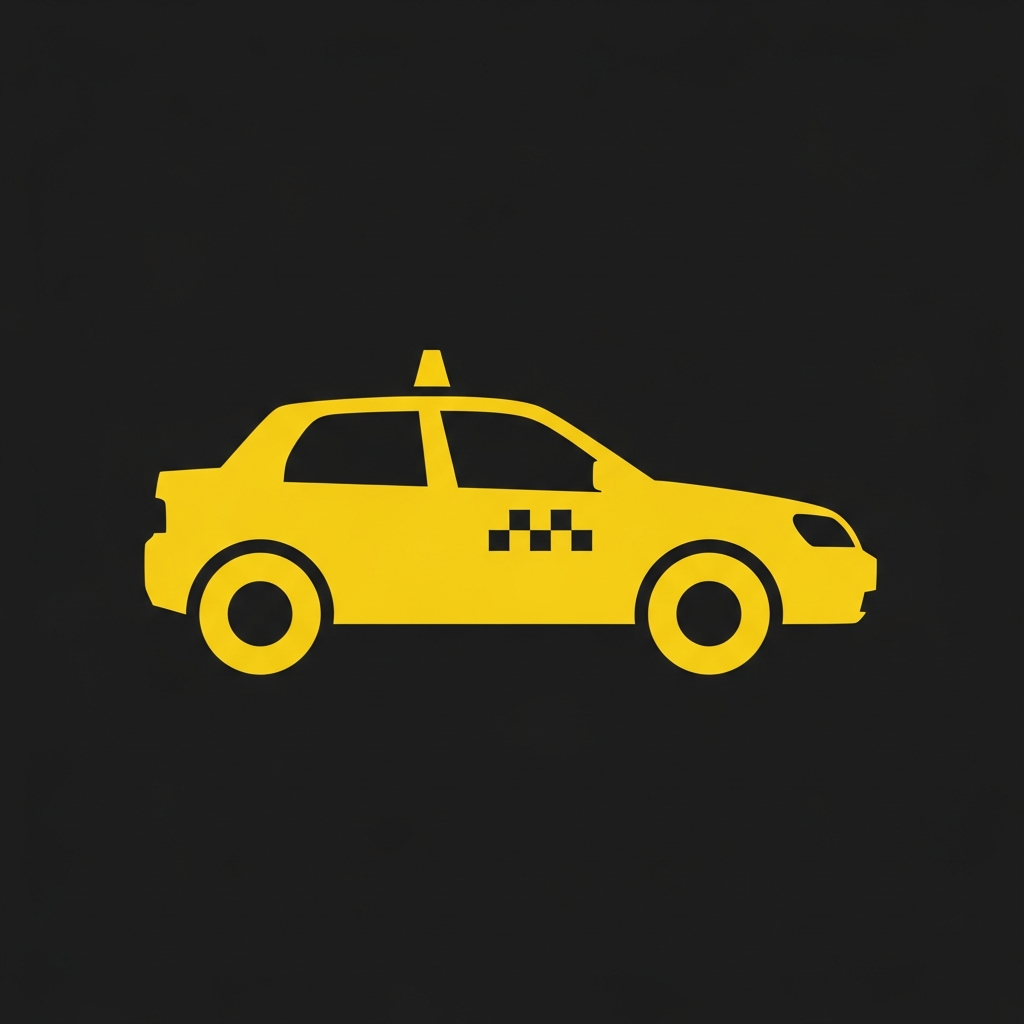
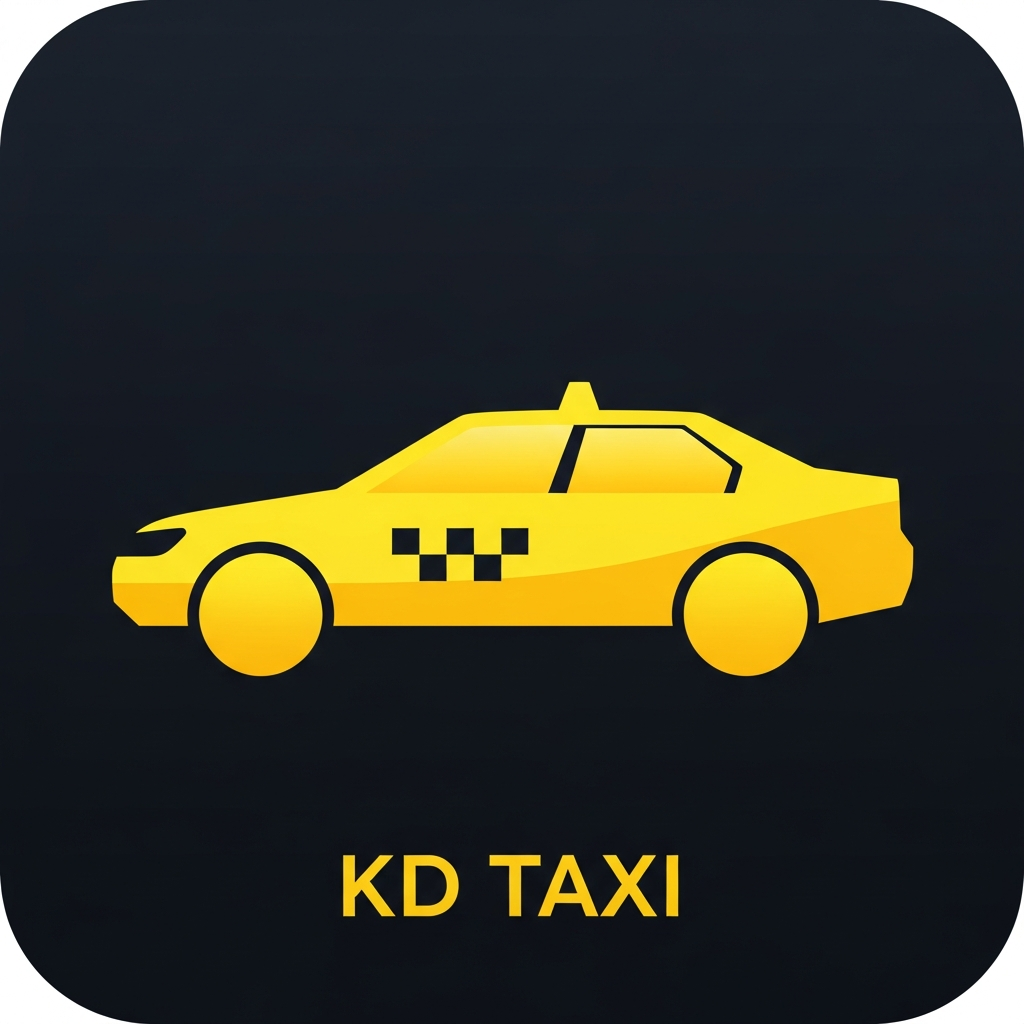
Display passenger and driver ratings and update app branding
Add average rating and ride count to ride details. Update "Chamar Táxi" to "KD TAXI" and configure adaptive icons for Android.

Replit-Commit-Author: Agent
Replit-Commit-Session-Id: c68bd1b4-e761-450b-b672-76a283f21896
Replit-Commit-Checkpoint-Type: full_checkpoint
Replit-Commit-Event-Id: 239e5c84-0c38-43c9-a912-e042a919df93
Replit-Commit-Screenshot-Url: https://storage.googleapis.com/screenshot-production-us-central1/6c9faf18-8340-438f-9c54-a1fdcf8d30b1/c68bd1b4-e761-450b-b672-76a283f21896/aLatMxD
Replit-Helium-Checkpoint-Created: true

diff --git a/artifacts/kd-taxi/screens/DriverHome.tsx b/artifacts/kd-taxi/screens/DriverHome.tsx
@@ -44,6 +44,9 @@ function RideCard({ ride, onAccept, onDecline }: { ride: Ride; onAccept: () => v
     clientRow: { flexDirection: "row", alignItems: "center", gap: 12, marginBottom: 14 },
     clientName: { fontSize: 18, fontWeight: "700", color: colors.foreground, fontFamily: "Inter_700Bold" },
     clientPhone: { fontSize: 13, color: colors.mutedForeground, fontFamily: "Inter_400Regular" },
+    clientRatingRow: { flexDirection: "row", alignItems: "center", gap: 4, marginTop: 3 },
+    clientRatingText: { fontSize: 13, color: colors.statusWaiting, fontFamily: "Inter_600SemiBold" },
+    clientRatingCount: { fontSize: 11, color: colors.mutedForeground, fontFamily: "Inter_400Regular" },
     row: { flexDirection: "row", alignItems: "center", gap: 10, marginBottom: 8 },
     dot: { width: 8, height: 8, borderRadius: 4 },
     routeText: { fontSize: 14, color: colors.foreground, flex: 1, fontFamily: "Inter_400Regular" },
@@ -78,6 +81,18 @@ function RideCard({ ride, onAccept, onDecline }: { ride: Ride; onAccept: () => v
           <View>
             <Text style={s.clientName}>{ride.clientName}</Text>
             <Text style={s.clientPhone}>{ride.clientPhone}</Text>
+            {(ride.clientAvgRating ?? 0) > 0 ? (
+              <View style={s.clientRatingRow}>
+                <Feather name="star" size={12} color={colors.statusWaiting} />
+                <Text style={s.clientRatingText}>{ride.clientAvgRating!.toFixed(1)}</Text>
+                <Text style={s.clientRatingCount}>({ride.clientRideCount} corridas)</Text>
+              </View>
+            ) : (
+              <View style={s.clientRatingRow}>
+                <Feather name="star" size={12} color={colors.mutedForeground} />
+                <Text style={s.clientRatingCount}>Sem avaliações ainda</Text>
+              </View>
+            )}
           </View>
         </View>
         <View style={s.row}>
@@ -209,7 +224,16 @@ export default function DriverHome() {
             </TouchableOpacity>
             <View>
               <Text style={s.userName}>{user?.name}</Text>
-              <Text style={s.userSub}>Motorista{user?.rating ? ` · ${user.rating} ★` : ""}</Text>
+              {(user?.rating ?? 0) > 0 ? (
+                <View style={{ flexDirection: "row", alignItems: "center", gap: 4, marginTop: 2 }}>
+                  <Feather name="star" size={11} color={colors.primary} />
+                  <Text style={[s.userSub, { color: colors.primary }]}>
+                    {user!.rating!.toFixed(1)} · {user!.rideCount} corridas
+                  </Text>
+                </View>
+              ) : (
+                <Text style={s.userSub}>Motorista</Text>
+              )}
             </View>
           </View>
           <View style={s.headerActions}>
@@ -251,6 +275,18 @@ export default function DriverHome() {
                   <View>
                     <Text style={s.clientName}>{activeRide.clientName}</Text>
                     <Text style={s.clientPhone}>{activeRide.clientPhone}</Text>
+                    {(activeRide.clientAvgRating ?? 0) > 0 ? (
+                      <View style={{ flexDirection: "row", alignItems: "center", gap: 4, marginTop: 3 }}>
+                        <Feather name="star" size={12} color={colors.statusWaiting} />
+                        <Text style={{ fontSize: 12, color: colors.statusWaiting, fontFamily: "Inter_600SemiBold" }}>
+                          {activeRide.clientAvgRating!.toFixed(1)} · {activeRide.clientRideCount} corridas
+                        </Text>
+                      </View>
+                    ) : (
+                      <Text style={{ fontSize: 12, color: colors.mutedForeground, fontFamily: "Inter_400Regular", marginTop: 2 }}>
+                        Novo passageiro
+                      </Text>
+                    )}
                   </View>
                 </View>
                 <View style={s.row}>

diff --git a/artifacts/kd-taxi/screens/ClientHome.tsx b/artifacts/kd-taxi/screens/ClientHome.tsx
@@ -188,6 +188,14 @@ export default function ClientHome() {
         <View>
           <Text style={s.greeting}>Olá,</Text>
           <Text style={s.userName}>{user?.name}</Text>
+          {(user?.rating ?? 0) > 0 && (
+            <View style={{ flexDirection: "row", alignItems: "center", gap: 4, marginTop: 2 }}>
+              <Feather name="star" size={11} color={colors.primary} />
+              <Text style={{ fontSize: 12, color: colors.primary, fontFamily: "Inter_600SemiBold" }}>
+                {user!.rating!.toFixed(1)} · {user!.rideCount} corridas
+              </Text>
+            </View>
+          )}
         </View>
         <View style={s.headerRight}>
           <TouchableOpacity onPress={() => router.push("/profile")}>
@@ -214,7 +222,7 @@ export default function ClientHome() {
                   style={s.bigBtn}
                 >
                   <MaterialCommunityIcons name="car-side" size={52} color="#000" style={s.bigBtnIcon} />
-                  <Text style={s.bigBtnText}>Chamar Táxi</Text>
+                  <Text style={s.bigBtnText}>KD TAXI</Text>
                   <Text style={s.bigBtnSub}>Preencha os campos abaixo</Text>
                 </LinearGradient>
               </Animated.View>
@@ -335,6 +343,14 @@ export default function ClientHome() {
                   <View style={{ flex: 1 }}>
                     <Text style={s.driverName}>{activeRide.driverName}</Text>
                     <Text style={s.driverSub}>Seu motorista</Text>
+                    {(activeRide.driverAvgRating ?? 0) > 0 ? (
+                      <View style={{ flexDirection: "row", alignItems: "center", gap: 4, marginTop: 3 }}>
+                        <Feather name="star" size={12} color={colors.primary} />
+                        <Text style={s.driverRating}>{activeRide.driverAvgRating!.toFixed(1)} · {activeRide.driverRideCount} corridas</Text>
+                      </View>
+                    ) : (
+                      <Text style={[s.driverSub, { marginTop: 2 }]}>Novo motorista</Text>
+                    )}
                   </View>
                 </View>
               )}

diff --git a/artifacts/api-server/src/routes/taxi.ts b/artifacts/api-server/src/routes/taxi.ts
@@ -22,9 +22,13 @@ interface Ride {
   clientName: string;
   clientPhone: string;
   clientPhoto?: string;
+  clientAvgRating?: number;
+  clientRideCount?: number;
   driverId?: string;
   driverName?: string;
   driverPhoto?: string;
+  driverAvgRating?: number;
+  driverRideCount?: number;
   origin: string;
   destination: string;
   price?: number;
@@ -132,8 +136,12 @@ router.post("/request-ride", async (req: Request, res: Response) => {
   if (!clientId || !origin || !destination) { res.status(400).json({ error: "Missing required fields" }); return; }
 
   const price = lookupPrice(destination);
+  const client = users.get(clientId);
   const ride: Ride = {
-    id: getId(), clientId, clientName, clientPhone, clientPhoto, origin, destination,
+    id: getId(), clientId, clientName, clientPhone, clientPhoto,
+    clientAvgRating: client?.rating ?? 0,
+    clientRideCount: client?.rideCount ?? 0,
+    origin, destination,
     price, payment: (payment as Ride["payment"]) ?? "dinheiro",
     status: "waiting", createdAt: new Date().toISOString(),
   };
@@ -161,9 +169,12 @@ router.post("/accept-ride", async (req: Request, res: Response) => {
   if (!ride) { res.status(404).json({ error: "Ride not found" }); return; }
   if (ride.status !== "waiting") { res.status(409).json({ error: "Ride already taken" }); return; }
 
+  const driver = users.get(driverId);
   ride.driverId = driverId;
   ride.driverName = driverName;
   ride.driverPhoto = driverPhoto;
+  ride.driverAvgRating = driver?.rating ?? 0;
+  ride.driverRideCount = driver?.rideCount ?? 0;
   ride.status = "accepted";
   ride.acceptedAt = new Date().toISOString();
 

diff --git a/artifacts/kd-taxi/context/AppContext.tsx b/artifacts/kd-taxi/context/AppContext.tsx
@@ -31,9 +31,13 @@ export interface Ride {
   clientName: string;
   clientPhone: string;
   clientPhoto?: string;
+  clientAvgRating?: number;
+  clientRideCount?: number;
   driverId?: string;
   driverName?: string;
   driverPhoto?: string;
+  driverAvgRating?: number;
+  driverRideCount?: number;
   origin: string;
   destination: string;
   price?: number;
